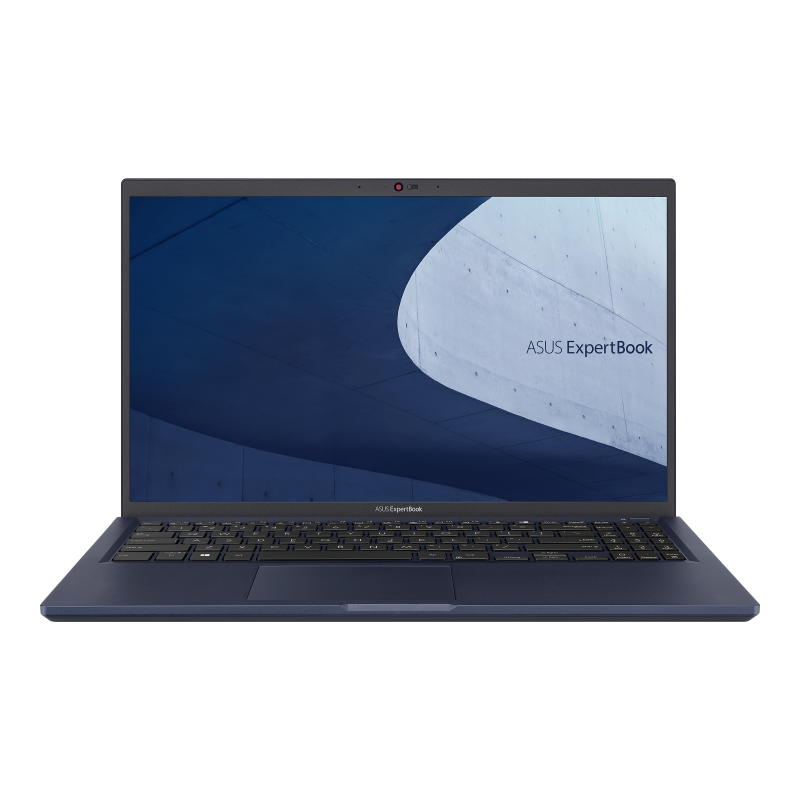
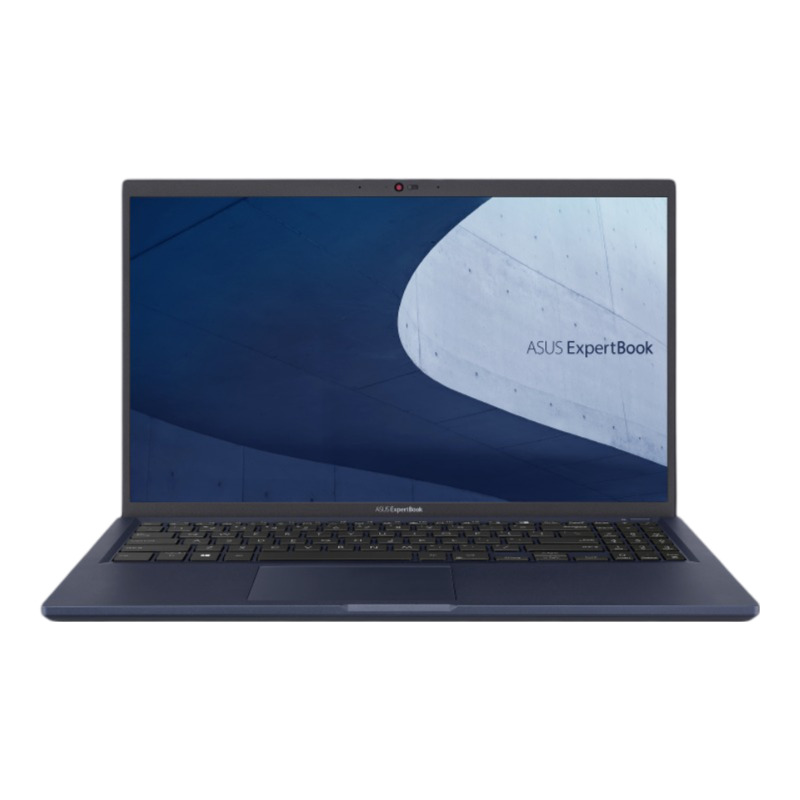
Modification du style pour rendre les images des produits mieux positionnées dans la page produits.html.

diff --git a/Site_Web/css/style.css b/Site_Web/css/style.css
@@ -183,7 +183,8 @@ label {
 .image-laptop {
     width: 98%;
     height: 100%;
-    object-fit: cover;
+    /*object-fit: cover;*/
+    transform: scale(0.95);
 }
 
 
